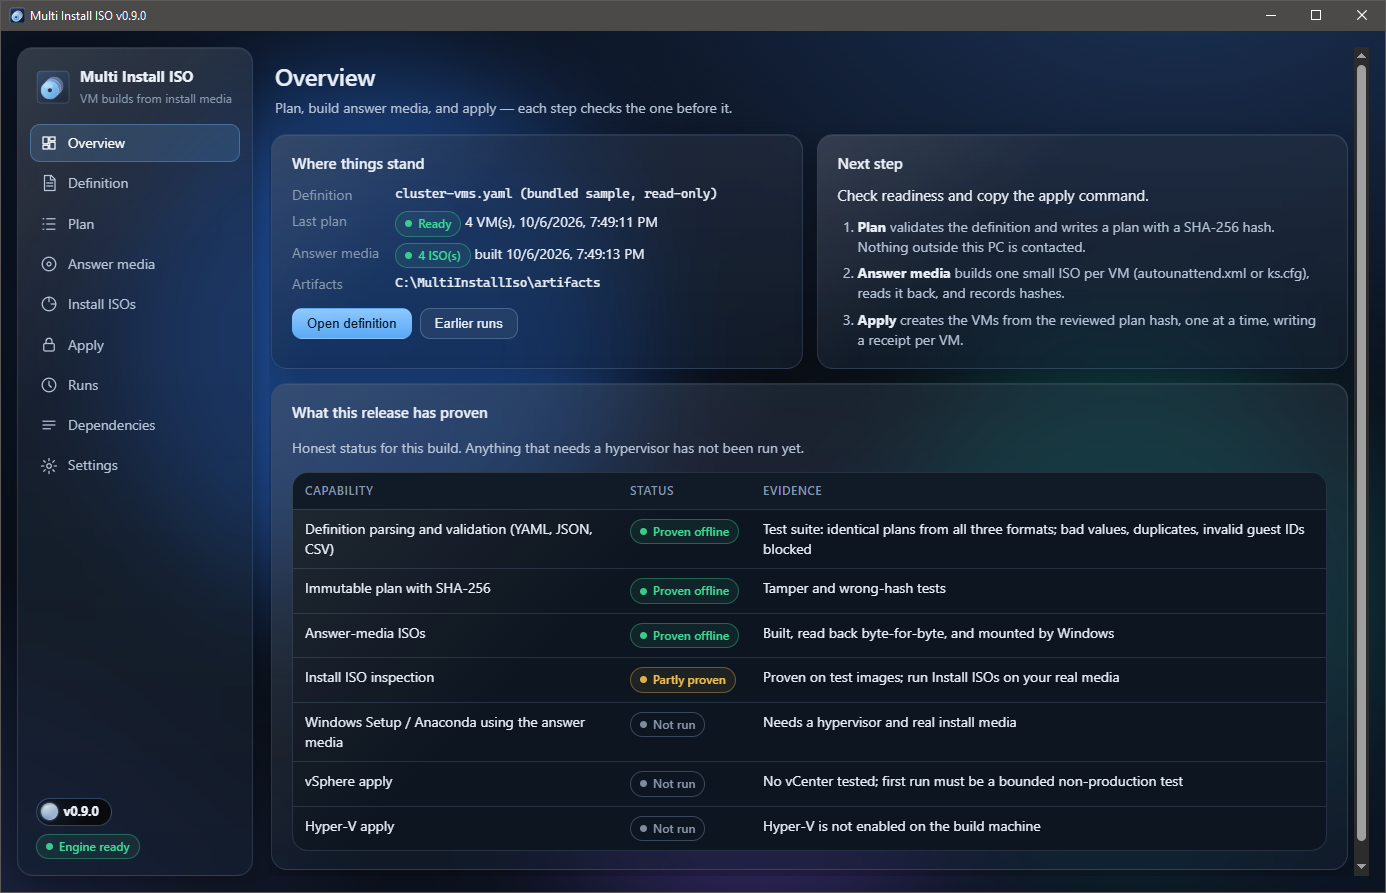
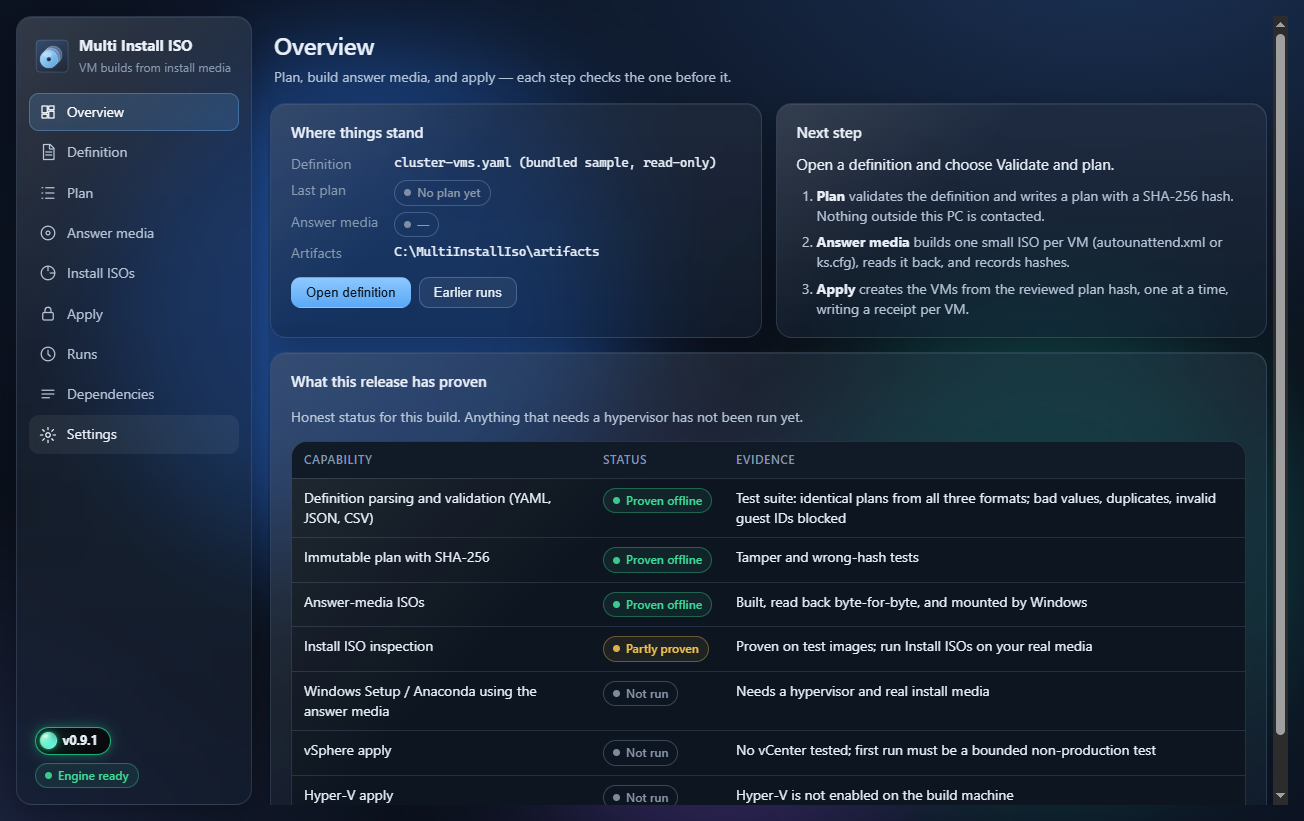
Multi Install ISO 0.9.1: README says what it's for and how to use it; fresh screenshots
Docs and packaging only. New "What it's for" and "How to use" sections, Overview and Settings screenshots of the current build, version 0.9.1 in Directory.Build.props and the module manifest.

diff --git a/README.md b/README.md
@@ -6,7 +6,24 @@ Describe the VMs, get a plan with a hash, build the unattended answer media, the
 
 ![Overview: what's planned, what's built, and an honest list of what hasn't been proven yet](docs/screenshots/overview.png)
 
-> **Status (0.9.0, prerelease):** planning, validation, answer-media ISOs, install-ISO checks, and the desktop app are proven offline on Windows. **No VM has been built with this release yet.** The vSphere and Hyper-V apply paths, and Windows Setup or Anaconda actually eating the generated media, have not been run. Optimism is not evidence. See [docs/EVALUATION.md](docs/EVALUATION.md).
+> **Status (0.9.1, prerelease):** planning, validation, answer-media ISOs, install-ISO checks, and the desktop app are proven offline on Windows. **No VM has been built with this release yet.** The vSphere and Hyper-V apply paths, and Windows Setup or Anaconda actually eating the generated media, have not been run. Optimism is not evidence. See [docs/EVALUATION.md](docs/EVALUATION.md).
+
+## What it's for
+
+For the person who gets asked for "a few new servers by this afternoon" and is tired of clicking through Windows Setup, or of keeping golden images alive. You write down the VMs you want (names, sizes, network, OS) in one YAML, JSON or CSV file. Multi Install ISO checks it, turns it into a plan you can review, builds the unattended answer media that installs each server straight from the vendor's ISO (Windows Server, or Rocky/Alma/RHEL), and then creates the VMs on vSphere or local Hyper-V with a receipt for every step. It solves two problems: repeatable builds without templates, and knowing exactly what happened when one of them goes wrong.
+
+## How to use
+
+1. **Get it.** Download `MultiInstallIso-<version>-win-x64.zip` from [Releases](https://github.com/mikedopp/Multi_Install_ISO/releases) and extract it, or build it yourself with `build.cmd`, which lands in `dist\MultiInstallIso-<version>-win-x64\`. It needs Windows 10/11, PowerShell 7 and the WebView2 runtime; the .NET runtime is built in.
+2. **Start the app.** Run `MultiInstallIso.exe`. The **Overview** page shows what is planned and built, and the **Dependencies** page shows what is missing (PowerCLI for vSphere, the Hyper-V module for Hyper-V).
+3. **Describe the VMs.** On **Definition**, open a bundled sample (they are read-only, so save a copy) or your own file, pick vSphere or Hyper-V, and fill in the target. Definitions never hold passwords.
+4. **Plan.** Click Plan. Fix anything it lists as blocking until the plan is clean, then note the plan's SHA-256 on the **Plan** page; every later step asks for it.
+5. **Check the install ISOs.** On **Install ISOs**, point at each vendor ISO with the publisher's SHA-256. `PASS` means the hash matched and the content was recognised.
+6. **Build the answer media.** On **Answer media**, enter the admin (and domain-join) credentials in the native dialog. You get one small verified ISO per VM. It holds credentials, so delete it once the servers are built.
+7. **Apply.** The **Apply** page shows a readiness checklist and the exact `Build-Cluster.ps1 -Mode Apply` command to run in a terminal, with the plan hash and the target you must name. It builds the VMs one at a time and stops at the first failure.
+8. **Review.** **Runs** lists every plan, media build and apply attempt with its receipts.
+
+Prefer the command line? Everything above is in [Command line](#command-line) and step by step in [docs/RUNBOOK.md](docs/RUNBOOK.md).
 
 ## The scenario
 

diff --git a/CHANGELOG.md b/CHANGELOG.md
@@ -1,5 +1,13 @@
 # Changelog
 
+## [0.9.1] - 2026-10-17
+
+Docs and packaging only; the engine and the app behave as in 0.9.0.
+
+### Changed
+- README: new "What it's for" and "How to use" sections (build or download, then Definition, Plan, Answer media, Install ISOs, Apply, Runs), and fresh Overview and Settings screenshots of the current app.
+- The Glimmer kit's `VERSION.txt`, which ships in the release, no longer names the folder it was installed from.
+
 ## [0.9.0] - 2026-10-06
 
 First versioned release: a rebuild of the engine and the app. See `docs/EVALUATION.md` for what was broken and what is now proven.
